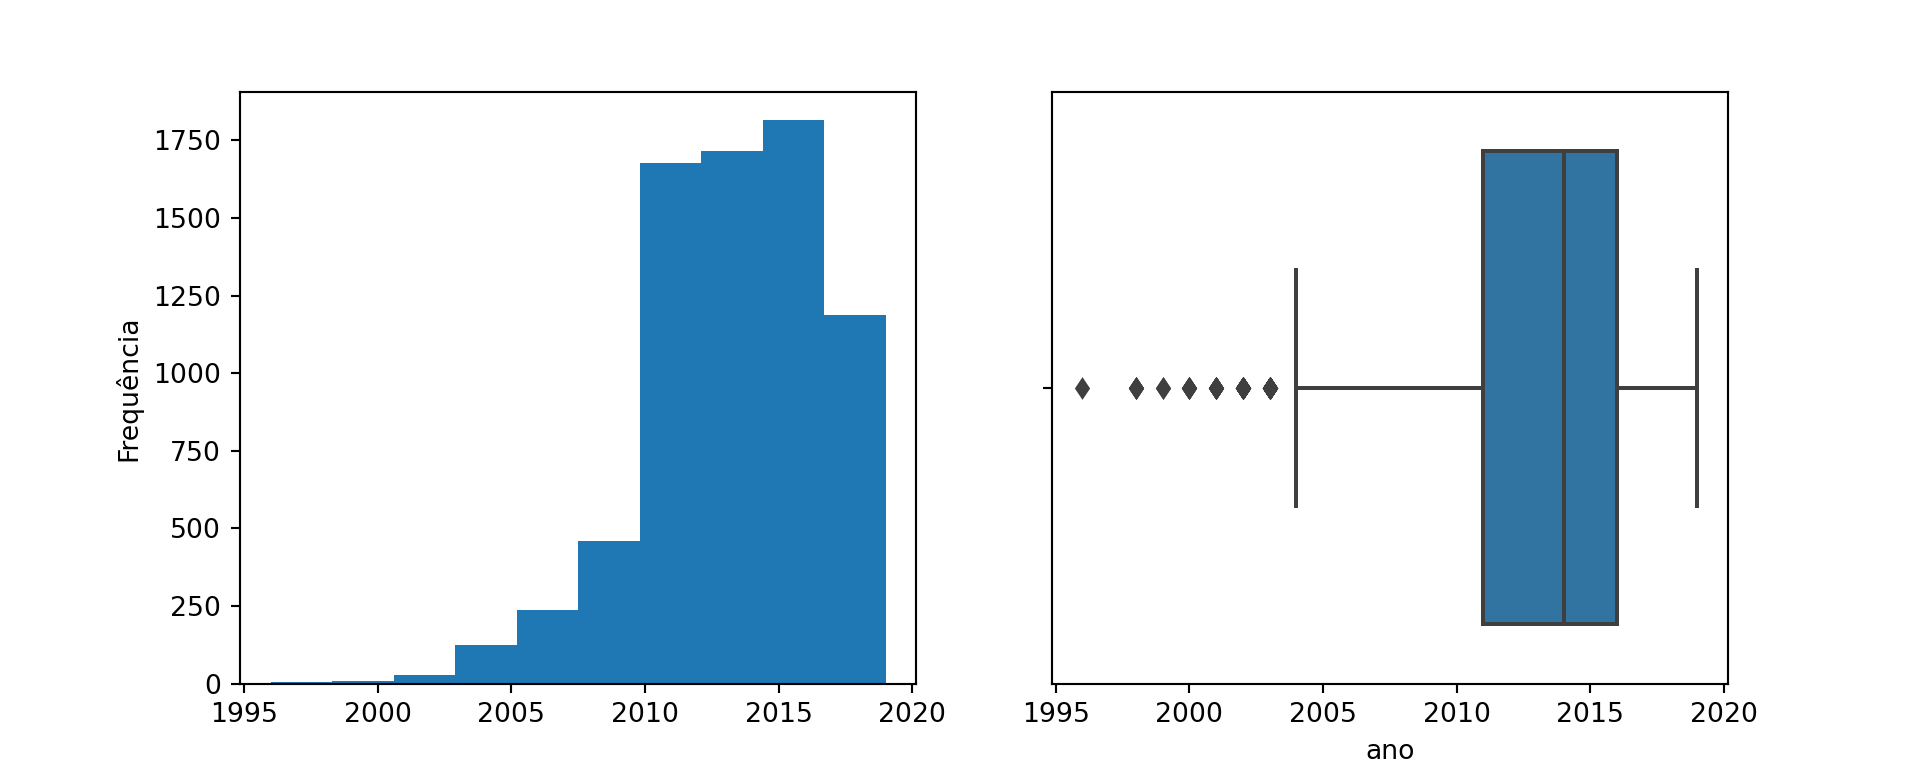
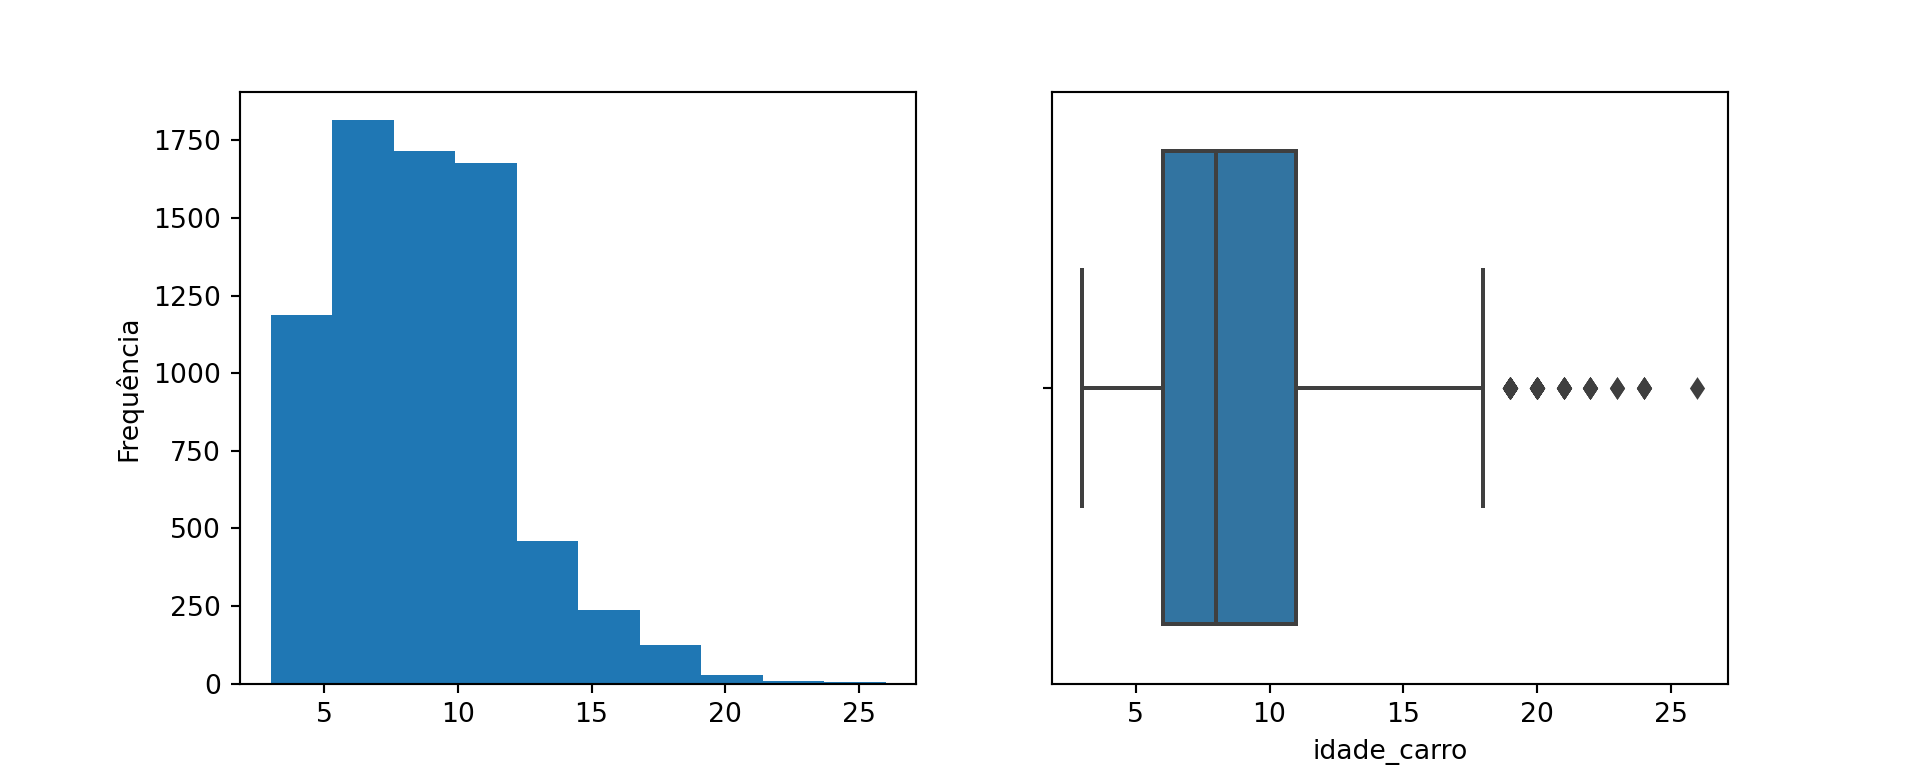
atualizacao graficos

diff --git a/Semana_Academica_UFPR.html b/Semana_Academica_UFPR.html
@@ -1302,10 +1302,10 @@ Manual             203        261      455  ...      566     590   596
 <h4 id="histogramas-e-boxplot-1">Histogramas e BoxPlot</h4>
 <div class="cell">
 <div class="cell-output cell-output-stdout">
-<pre><code>ano</code></pre>
+<pre><code>idade_carro</code></pre>
 </div>
 <div class="cell-output cell-output-stdout">
-<pre><code>Assimetria : -0.84</code></pre>
+<pre><code>Assimetria : 0.84</code></pre>
 </div>
 
 </div>
@@ -1445,7 +1445,7 @@ ano
 <div class="cell-output-display">
 
 <div>                        <script type="text/javascript">window.PlotlyConfig = {MathJaxConfig: 'local'};</script>
-        <script src="https://cdn.plot.ly/plotly-2.9.0.min.js"></script>                <div id="f6405d8d-21e4-4b34-8b5a-dcd3aeb75862" class="plotly-graph-div" style="height:100%; width:100%;"></div>            <script type="text/javascript">                                    window.PLOTLYENV=window.PLOTLYENV || {};                                    if (document.getElementById("f6405d8d-21e4-4b34-8b5a-dcd3aeb75862")) {                    Plotly.newPlot(                        "f6405d8d-21e4-4b34-8b5a-dcd3aeb75862",                        [{"alignmentgroup":"True","hovertemplate":"transmissao=%{x}<br>preco_medio=%{y}<extra></extra>","legendgroup":"","marker":{"color":"#636efa","pattern":{"shape":""}},"name":"","offsetgroup":"","orientation":"v","showlegend":false,"textposition":"auto","x":["Automatic","Manual"],"xaxis":"x","y":[19.843970930232558,5.33270295417539],"yaxis":"y","type":"bar"}],                        {"template":{"data":{"bar":[{"error_x":{"color":"#2a3f5f"},"error_y":{"color":"#2a3f5f"},"marker":{"line":{"color":"#E5ECF6","width":0.5},"pattern":{"fillmode":"overlay","size":10,"solidity":0.2}},"type":"bar"}],"barpolar":[{"marker":{"line":{"color":"#E5ECF6","width":0.5},"pattern":{"fillmode":"overlay","size":10,"solidity":0.2}},"type":"barpolar"}],"carpet":[{"aaxis":{"endlinecolor":"#2a3f5f","gridcolor":"white","linecolor":"white","minorgridcolor":"white","startlinecolor":"#2a3f5f"},"baxis":{"endlinecolor":"#2a3f5f","gridcolor":"white","linecolor":"white","minorgridcolor":"white","startlinecolor":"#2a3f5f"},"type":"carpet"}],"choropleth":[{"colorbar":{"outlinewidth":0,"ticks":""},"type":"choropleth"}],"contour":[{"colorbar":{"outlinewidth":0,"ticks":""},"colorscale":[[0.0,"#0d0887"],[0.1111111111111111,"#46039f"],[0.2222222222222222,"#7201a8"],[0.3333333333333333,"#9c179e"],[0.4444444444444444,"#bd3786"],[0.5555555555555556,"#d8576b"],[0.6666666666666666,"#ed7953"],[0.7777777777777778,"#fb9f3a"],[0.8888888888888888,"#fdca26"],[1.0,"#f0f921"]],"type":"contour"}],"contourcarpet":[{"colorbar":{"outlinewidth":0,"ticks":""},"type":"contourcarpet"}],"heatmap":[{"colorbar":{"outlinewidth":0,"ticks":""},"colorscale":[[0.0,"#0d0887"],[0.1111111111111111,"#46039f"],[0.2222222222222222,"#7201a8"],[0.3333333333333333,"#9c179e"],[0.4444444444444444,"#bd3786"],[0.5555555555555556,"#d8576b"],[0.6666666666666666,"#ed7953"],[0.7777777777777778,"#fb9f3a"],[0.8888888888888888,"#fdca26"],[1.0,"#f0f921"]],"type":"heatmap"}],"heatmapgl":[{"colorbar":{"outlinewidth":0,"ticks":""},"colorscale":[[0.0,"#0d0887"],[0.1111111111111111,"#46039f"],[0.2222222222222222,"#7201a8"],[0.3333333333333333,"#9c179e"],[0.4444444444444444,"#bd3786"],[0.5555555555555556,"#d8576b"],[0.6666666666666666,"#ed7953"],[0.7777777777777778,"#fb9f3a"],[0.8888888888888888,"#fdca26"],[1.0,"#f0f921"]],"type":"heatmapgl"}],"histogram":[{"marker":{"pattern":{"fillmode":"overlay","size":10,"solidity":0.2}},"type":"histogram"}],"histogram2d":[{"colorbar":{"outlinewidth":0,"ticks":""},"colorscale":[[0.0,"#0d0887"],[0.1111111111111111,"#46039f"],[0.2222222222222222,"#7201a8"],[0.3333333333333333,"#9c179e"],[0.4444444444444444,"#bd3786"],[0.5555555555555556,"#d8576b"],[0.6666666666666666,"#ed7953"],[0.7777777777777778,"#fb9f3a"],[0.8888888888888888,"#fdca26"],[1.0,"#f0f921"]],"type":"histogram2d"}],"histogram2dcontour":[{"colorbar":{"outlinewidth":0,"ticks":""},"colorscale":[[0.0,"#0d0887"],[0.1111111111111111,"#46039f"],[0.2222222222222222,"#7201a8"],[0.3333333333333333,"#9c179e"],[0.4444444444444444,"#bd3786"],[0.5555555555555556,"#d8576b"],[0.6666666666666666,"#ed7953"],[0.7777777777777778,"#fb9f3a"],[0.8888888888888888,"#fdca26"],[1.0,"#f0f921"]],"type":"histogram2dcontour"}],"mesh3d":[{"colorbar":{"outlinewidth":0,"ticks":""},"type":"mesh3d"}],"parcoords":[{"line":{"colorbar":{"outlinewidth":0,"ticks":""}},"type":"parcoords"}],"pie":[{"automargin":true,"type":"pie"}],"scatter":[{"marker":{"colorbar":{"outlinewidth":0,"ticks":""}},"type":"scatter"}],"scatter3d":[{"line":{"colorbar":{"outlinewidth":0,"ticks":""}},"marker":{"colorbar":{"outlinewidth":0,"ticks":""}},"type":"scatter3d"}],"scattercarpet":[{"marker":{"colorbar":{"outlinewidth":0,"ticks":""}},"type":"scattercarpet"}],"scattergeo":[{"marker":{"colorbar":{"outlinewidth":0,"ticks":""}},"type":"scattergeo"}],"scattergl":[{"marker":{"colorbar":{"outlinewidth":0,"ticks":""}},"type":"scattergl"}],"scattermapbox":[{"marker":{"colorbar":{"outlinewidth":0,"ticks":""}},"type":"scattermapbox"}],"scatterpolar":[{"marker":{"colorbar":{"outlinewidth":0,"ticks":""}},"type":"scatterpolar"}],"scatterpolargl":[{"marker":{"colorbar":{"outlinewidth":0,"ticks":""}},"type":"scatterpolargl"}],"scatterternary":[{"marker":{"colorbar":{"outlinewidth":0,"ticks":""}},"type":"scatterternary"}],"surface":[{"colorbar":{"outlinewidth":0,"ticks":""},"colorscale":[[0.0,"#0d0887"],[0.1111111111111111,"#46039f"],[0.2222222222222222,"#7201a8"],[0.3333333333333333,"#9c179e"],[0.4444444444444444,"#bd3786"],[0.5555555555555556,"#d8576b"],[0.6666666666666666,"#ed7953"],[0.7777777777777778,"#fb9f3a"],[0.8888888888888888,"#fdca26"],[1.0,"#f0f921"]],"type":"surface"}],"table":[{"cells":{"fill":{"color":"#EBF0F8"},"line":{"color":"white"}},"header":{"fill":{"color":"#C8D4E3"},"line":{"color":"white"}},"type":"table"}]},"layout":{"annotationdefaults":{"arrowcolor":"#2a3f5f","arrowhead":0,"arrowwidth":1},"autotypenumbers":"strict","coloraxis":{"colorbar":{"outlinewidth":0,"ticks":""}},"colorscale":{"diverging":[[0,"#8e0152"],[0.1,"#c51b7d"],[0.2,"#de77ae"],[0.3,"#f1b6da"],[0.4,"#fde0ef"],[0.5,"#f7f7f7"],[0.6,"#e6f5d0"],[0.7,"#b8e186"],[0.8,"#7fbc41"],[0.9,"#4d9221"],[1,"#276419"]],"sequential":[[0.0,"#0d0887"],[0.1111111111111111,"#46039f"],[0.2222222222222222,"#7201a8"],[0.3333333333333333,"#9c179e"],[0.4444444444444444,"#bd3786"],[0.5555555555555556,"#d8576b"],[0.6666666666666666,"#ed7953"],[0.7777777777777778,"#fb9f3a"],[0.8888888888888888,"#fdca26"],[1.0,"#f0f921"]],"sequentialminus":[[0.0,"#0d0887"],[0.1111111111111111,"#46039f"],[0.2222222222222222,"#7201a8"],[0.3333333333333333,"#9c179e"],[0.4444444444444444,"#bd3786"],[0.5555555555555556,"#d8576b"],[0.6666666666666666,"#ed7953"],[0.7777777777777778,"#fb9f3a"],[0.8888888888888888,"#fdca26"],[1.0,"#f0f921"]]},"colorway":["#636efa","#EF553B","#00cc96","#ab63fa","#FFA15A","#19d3f3","#FF6692","#B6E880","#FF97FF","#FECB52"],"font":{"color":"#2a3f5f"},"geo":{"bgcolor":"white","lakecolor":"white","landcolor":"#E5ECF6","showlakes":true,"showland":true,"subunitcolor":"white"},"hoverlabel":{"align":"left"},"hovermode":"closest","mapbox":{"style":"light"},"paper_bgcolor":"white","plot_bgcolor":"#E5ECF6","polar":{"angularaxis":{"gridcolor":"white","linecolor":"white","ticks":""},"bgcolor":"#E5ECF6","radialaxis":{"gridcolor":"white","linecolor":"white","ticks":""}},"scene":{"xaxis":{"backgroundcolor":"#E5ECF6","gridcolor":"white","gridwidth":2,"linecolor":"white","showbackground":true,"ticks":"","zerolinecolor":"white"},"yaxis":{"backgroundcolor":"#E5ECF6","gridcolor":"white","gridwidth":2,"linecolor":"white","showbackground":true,"ticks":"","zerolinecolor":"white"},"zaxis":{"backgroundcolor":"#E5ECF6","gridcolor":"white","gridwidth":2,"linecolor":"white","showbackground":true,"ticks":"","zerolinecolor":"white"}},"shapedefaults":{"line":{"color":"#2a3f5f"}},"ternary":{"aaxis":{"gridcolor":"white","linecolor":"white","ticks":""},"baxis":{"gridcolor":"white","linecolor":"white","ticks":""},"bgcolor":"#E5ECF6","caxis":{"gridcolor":"white","linecolor":"white","ticks":""}},"title":{"x":0.05},"xaxis":{"automargin":true,"gridcolor":"white","linecolor":"white","ticks":"","title":{"standoff":15},"zerolinecolor":"white","zerolinewidth":2},"yaxis":{"automargin":true,"gridcolor":"white","linecolor":"white","ticks":"","title":{"standoff":15},"zerolinecolor":"white","zerolinewidth":2}}},"xaxis":{"anchor":"y","domain":[0.0,1.0],"title":{"text":"transmissao"}},"yaxis":{"anchor":"x","domain":[0.0,1.0],"title":{"text":"preco_medio"}},"legend":{"tracegroupgap":0},"margin":{"t":60},"barmode":"relative"},                        {"responsive": true}                    )                };                            </script>        </div>
+        <script src="https://cdn.plot.ly/plotly-2.9.0.min.js"></script>                <div id="74bc48ba-d752-4308-b9df-fae2d5c680cd" class="plotly-graph-div" style="height:100%; width:100%;"></div>            <script type="text/javascript">                                    window.PLOTLYENV=window.PLOTLYENV || {};                                    if (document.getElementById("74bc48ba-d752-4308-b9df-fae2d5c680cd")) {                    Plotly.newPlot(                        "74bc48ba-d752-4308-b9df-fae2d5c680cd",                        [{"alignmentgroup":"True","hovertemplate":"transmissao=%{x}<br>preco_medio=%{y}<extra></extra>","legendgroup":"","marker":{"color":"#636efa","pattern":{"shape":""}},"name":"","offsetgroup":"","orientation":"v","showlegend":false,"textposition":"auto","x":["Automatic","Manual"],"xaxis":"x","y":[19.843970930232558,5.33270295417539],"yaxis":"y","type":"bar"}],                        {"template":{"data":{"bar":[{"error_x":{"color":"#2a3f5f"},"error_y":{"color":"#2a3f5f"},"marker":{"line":{"color":"#E5ECF6","width":0.5},"pattern":{"fillmode":"overlay","size":10,"solidity":0.2}},"type":"bar"}],"barpolar":[{"marker":{"line":{"color":"#E5ECF6","width":0.5},"pattern":{"fillmode":"overlay","size":10,"solidity":0.2}},"type":"barpolar"}],"carpet":[{"aaxis":{"endlinecolor":"#2a3f5f","gridcolor":"white","linecolor":"white","minorgridcolor":"white","startlinecolor":"#2a3f5f"},"baxis":{"endlinecolor":"#2a3f5f","gridcolor":"white","linecolor":"white","minorgridcolor":"white","startlinecolor":"#2a3f5f"},"type":"carpet"}],"choropleth":[{"colorbar":{"outlinewidth":0,"ticks":""},"type":"choropleth"}],"contour":[{"colorbar":{"outlinewidth":0,"ticks":""},"colorscale":[[0.0,"#0d0887"],[0.1111111111111111,"#46039f"],[0.2222222222222222,"#7201a8"],[0.3333333333333333,"#9c179e"],[0.4444444444444444,"#bd3786"],[0.5555555555555556,"#d8576b"],[0.6666666666666666,"#ed7953"],[0.7777777777777778,"#fb9f3a"],[0.8888888888888888,"#fdca26"],[1.0,"#f0f921"]],"type":"contour"}],"contourcarpet":[{"colorbar":{"outlinewidth":0,"ticks":""},"type":"contourcarpet"}],"heatmap":[{"colorbar":{"outlinewidth":0,"ticks":""},"colorscale":[[0.0,"#0d0887"],[0.1111111111111111,"#46039f"],[0.2222222222222222,"#7201a8"],[0.3333333333333333,"#9c179e"],[0.4444444444444444,"#bd3786"],[0.5555555555555556,"#d8576b"],[0.6666666666666666,"#ed7953"],[0.7777777777777778,"#fb9f3a"],[0.8888888888888888,"#fdca26"],[1.0,"#f0f921"]],"type":"heatmap"}],"heatmapgl":[{"colorbar":{"outlinewidth":0,"ticks":""},"colorscale":[[0.0,"#0d0887"],[0.1111111111111111,"#46039f"],[0.2222222222222222,"#7201a8"],[0.3333333333333333,"#9c179e"],[0.4444444444444444,"#bd3786"],[0.5555555555555556,"#d8576b"],[0.6666666666666666,"#ed7953"],[0.7777777777777778,"#fb9f3a"],[0.8888888888888888,"#fdca26"],[1.0,"#f0f921"]],"type":"heatmapgl"}],"histogram":[{"marker":{"pattern":{"fillmode":"overlay","size":10,"solidity":0.2}},"type":"histogram"}],"histogram2d":[{"colorbar":{"outlinewidth":0,"ticks":""},"colorscale":[[0.0,"#0d0887"],[0.1111111111111111,"#46039f"],[0.2222222222222222,"#7201a8"],[0.3333333333333333,"#9c179e"],[0.4444444444444444,"#bd3786"],[0.5555555555555556,"#d8576b"],[0.6666666666666666,"#ed7953"],[0.7777777777777778,"#fb9f3a"],[0.8888888888888888,"#fdca26"],[1.0,"#f0f921"]],"type":"histogram2d"}],"histogram2dcontour":[{"colorbar":{"outlinewidth":0,"ticks":""},"colorscale":[[0.0,"#0d0887"],[0.1111111111111111,"#46039f"],[0.2222222222222222,"#7201a8"],[0.3333333333333333,"#9c179e"],[0.4444444444444444,"#bd3786"],[0.5555555555555556,"#d8576b"],[0.6666666666666666,"#ed7953"],[0.7777777777777778,"#fb9f3a"],[0.8888888888888888,"#fdca26"],[1.0,"#f0f921"]],"type":"histogram2dcontour"}],"mesh3d":[{"colorbar":{"outlinewidth":0,"ticks":""},"type":"mesh3d"}],"parcoords":[{"line":{"colorbar":{"outlinewidth":0,"ticks":""}},"type":"parcoords"}],"pie":[{"automargin":true,"type":"pie"}],"scatter":[{"marker":{"colorbar":{"outlinewidth":0,"ticks":""}},"type":"scatter"}],"scatter3d":[{"line":{"colorbar":{"outlinewidth":0,"ticks":""}},"marker":{"colorbar":{"outlinewidth":0,"ticks":""}},"type":"scatter3d"}],"scattercarpet":[{"marker":{"colorbar":{"outlinewidth":0,"ticks":""}},"type":"scattercarpet"}],"scattergeo":[{"marker":{"colorbar":{"outlinewidth":0,"ticks":""}},"type":"scattergeo"}],"scattergl":[{"marker":{"colorbar":{"outlinewidth":0,"ticks":""}},"type":"scattergl"}],"scattermapbox":[{"marker":{"colorbar":{"outlinewidth":0,"ticks":""}},"type":"scattermapbox"}],"scatterpolar":[{"marker":{"colorbar":{"outlinewidth":0,"ticks":""}},"type":"scatterpolar"}],"scatterpolargl":[{"marker":{"colorbar":{"outlinewidth":0,"ticks":""}},"type":"scatterpolargl"}],"scatterternary":[{"marker":{"colorbar":{"outlinewidth":0,"ticks":""}},"type":"scatterternary"}],"surface":[{"colorbar":{"outlinewidth":0,"ticks":""},"colorscale":[[0.0,"#0d0887"],[0.1111111111111111,"#46039f"],[0.2222222222222222,"#7201a8"],[0.3333333333333333,"#9c179e"],[0.4444444444444444,"#bd3786"],[0.5555555555555556,"#d8576b"],[0.6666666666666666,"#ed7953"],[0.7777777777777778,"#fb9f3a"],[0.8888888888888888,"#fdca26"],[1.0,"#f0f921"]],"type":"surface"}],"table":[{"cells":{"fill":{"color":"#EBF0F8"},"line":{"color":"white"}},"header":{"fill":{"color":"#C8D4E3"},"line":{"color":"white"}},"type":"table"}]},"layout":{"annotationdefaults":{"arrowcolor":"#2a3f5f","arrowhead":0,"arrowwidth":1},"autotypenumbers":"strict","coloraxis":{"colorbar":{"outlinewidth":0,"ticks":""}},"colorscale":{"diverging":[[0,"#8e0152"],[0.1,"#c51b7d"],[0.2,"#de77ae"],[0.3,"#f1b6da"],[0.4,"#fde0ef"],[0.5,"#f7f7f7"],[0.6,"#e6f5d0"],[0.7,"#b8e186"],[0.8,"#7fbc41"],[0.9,"#4d9221"],[1,"#276419"]],"sequential":[[0.0,"#0d0887"],[0.1111111111111111,"#46039f"],[0.2222222222222222,"#7201a8"],[0.3333333333333333,"#9c179e"],[0.4444444444444444,"#bd3786"],[0.5555555555555556,"#d8576b"],[0.6666666666666666,"#ed7953"],[0.7777777777777778,"#fb9f3a"],[0.8888888888888888,"#fdca26"],[1.0,"#f0f921"]],"sequentialminus":[[0.0,"#0d0887"],[0.1111111111111111,"#46039f"],[0.2222222222222222,"#7201a8"],[0.3333333333333333,"#9c179e"],[0.4444444444444444,"#bd3786"],[0.5555555555555556,"#d8576b"],[0.6666666666666666,"#ed7953"],[0.7777777777777778,"#fb9f3a"],[0.8888888888888888,"#fdca26"],[1.0,"#f0f921"]]},"colorway":["#636efa","#EF553B","#00cc96","#ab63fa","#FFA15A","#19d3f3","#FF6692","#B6E880","#FF97FF","#FECB52"],"font":{"color":"#2a3f5f"},"geo":{"bgcolor":"white","lakecolor":"white","landcolor":"#E5ECF6","showlakes":true,"showland":true,"subunitcolor":"white"},"hoverlabel":{"align":"left"},"hovermode":"closest","mapbox":{"style":"light"},"paper_bgcolor":"white","plot_bgcolor":"#E5ECF6","polar":{"angularaxis":{"gridcolor":"white","linecolor":"white","ticks":""},"bgcolor":"#E5ECF6","radialaxis":{"gridcolor":"white","linecolor":"white","ticks":""}},"scene":{"xaxis":{"backgroundcolor":"#E5ECF6","gridcolor":"white","gridwidth":2,"linecolor":"white","showbackground":true,"ticks":"","zerolinecolor":"white"},"yaxis":{"backgroundcolor":"#E5ECF6","gridcolor":"white","gridwidth":2,"linecolor":"white","showbackground":true,"ticks":"","zerolinecolor":"white"},"zaxis":{"backgroundcolor":"#E5ECF6","gridcolor":"white","gridwidth":2,"linecolor":"white","showbackground":true,"ticks":"","zerolinecolor":"white"}},"shapedefaults":{"line":{"color":"#2a3f5f"}},"ternary":{"aaxis":{"gridcolor":"white","linecolor":"white","ticks":""},"baxis":{"gridcolor":"white","linecolor":"white","ticks":""},"bgcolor":"#E5ECF6","caxis":{"gridcolor":"white","linecolor":"white","ticks":""}},"title":{"x":0.05},"xaxis":{"automargin":true,"gridcolor":"white","linecolor":"white","ticks":"","title":{"standoff":15},"zerolinecolor":"white","zerolinewidth":2},"yaxis":{"automargin":true,"gridcolor":"white","linecolor":"white","ticks":"","title":{"standoff":15},"zerolinecolor":"white","zerolinewidth":2}}},"xaxis":{"anchor":"y","domain":[0.0,1.0],"title":{"text":"transmissao"}},"yaxis":{"anchor":"x","domain":[0.0,1.0],"title":{"text":"preco_medio"}},"legend":{"tracegroupgap":0},"margin":{"t":60},"barmode":"relative"},                        {"responsive": true}                    )                };                            </script>        </div>
 </div>
 </div>
 </section>
@@ -1465,7 +1465,7 @@ ano
 <span id="cb89-5"><a href="#cb89-5"></a>ggplot(dados_agrupados_p, aes(x <span class="op">=</span> <span class="st">'transmissao'</span>, y <span class="op">=</span> <span class="st">'preco_medio'</span>)) <span class="op">\</span></span>
 <span id="cb89-6"><a href="#cb89-6"></a><span class="op">+</span> geom_bar(stat <span class="op">=</span> <span class="st">"identity"</span>)</span></code><button title="Copy to Clipboard" class="code-copy-button"><i class="bi"></i></button></pre></div>
 <div class="cell-output cell-output-stdout">
-<pre><code>&lt;ggplot: (8772583636390)&gt;</code></pre>
+<pre><code>&lt;ggplot: (8742992360102)&gt;</code></pre>
 </div>
 
 </div>
